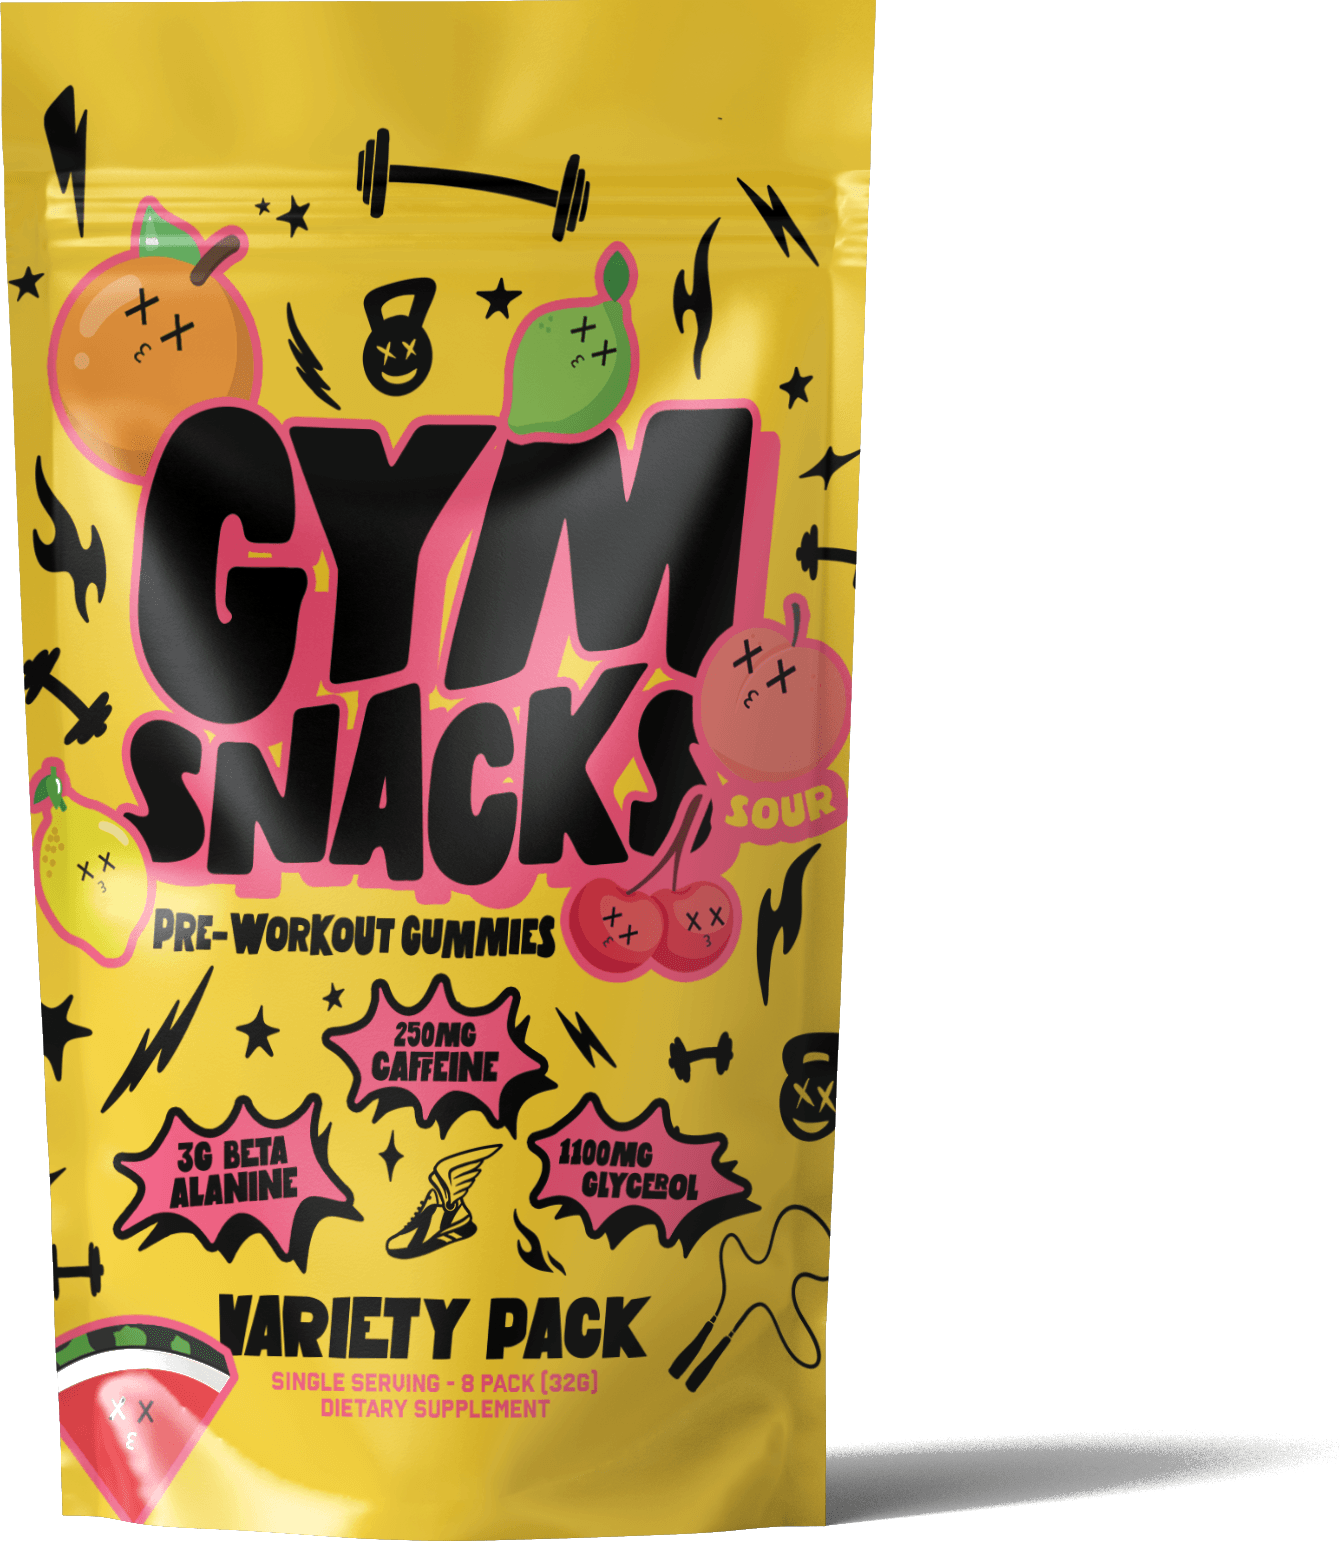
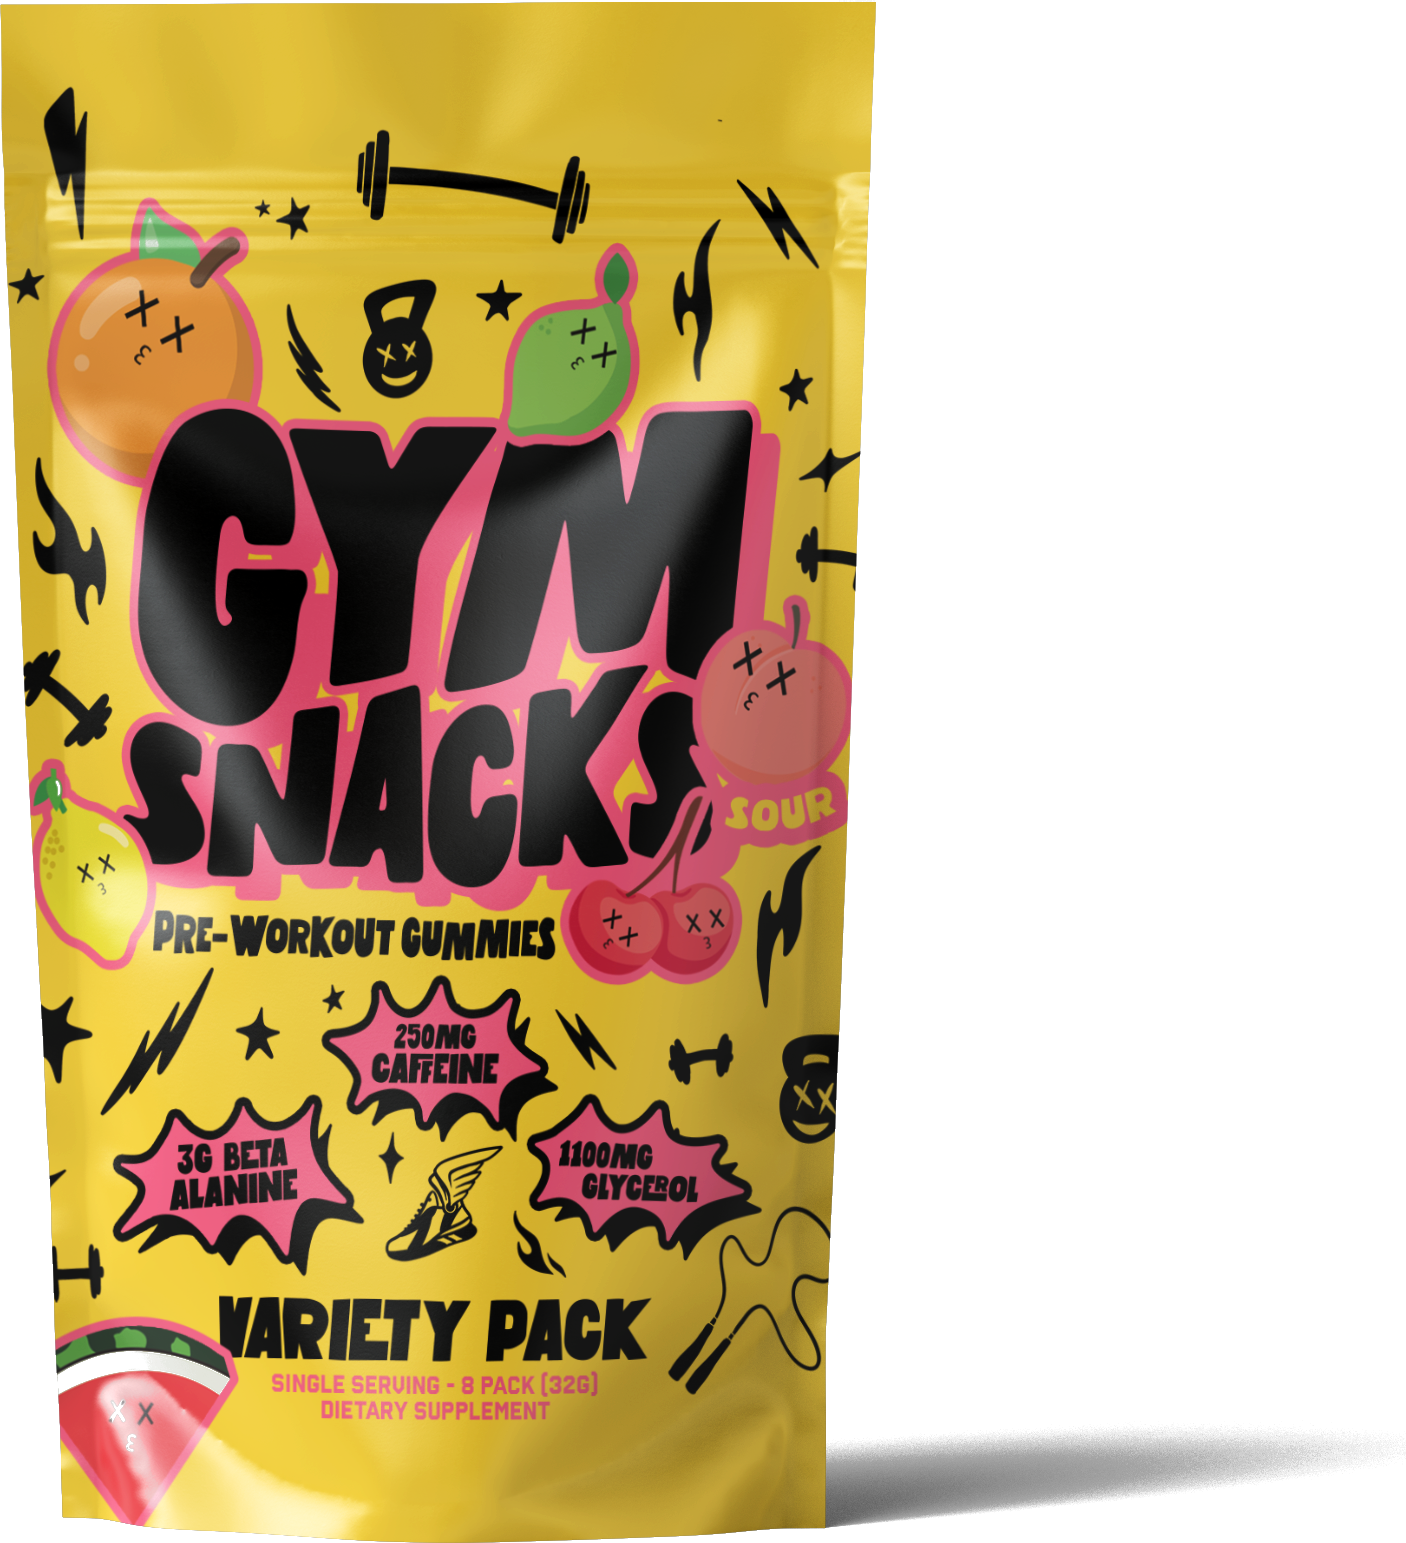
fix: poppy hover badges, remove white fringe from bag, pink shadow
- BurstBadge: bigger hover (1.25x scale + wiggle rotation), tap shrink,
  dark drop shadow instead of none, cursor pointer
- Bag mockup: re-processed with tighter edge tolerance, darkened fringe
  pixels to eliminate white halo from background removal
- Hero bag shadow: changed from black to pink glow (rgba(255,20,147,0.4))

diff --git a/src/components/ui/BurstBadge.tsx b/src/components/ui/BurstBadge.tsx
@@ -27,11 +27,17 @@ export function BurstBadge({ children, className = "", delay = 0, size = "md" }:
         damping: 15,
         delay,
       }}
-      whileHover={{ scale: 1.1, rotate: 5 }}
+      whileHover={{
+        scale: 1.25,
+        rotate: [0, -8, 8, -4, 0],
+        transition: { duration: 0.4, type: "spring", stiffness: 500 },
+      }}
+      whileTap={{ scale: 0.9 }}
       className={`
-        clip-burst bg-brand-pink
+        clip-burst bg-brand-pink cursor-pointer
         flex items-center justify-center text-center
         font-display text-white uppercase leading-tight
+        drop-shadow-[3px_3px_0_rgba(26,26,26,0.8)]
         p-4 ${sizes[size]} ${className}
       `}
     >

diff --git a/src/components/home/Hero.tsx b/src/components/home/Hero.tsx
@@ -132,7 +132,7 @@ export function Hero() {
                 width={420}
                 height={480}
                 priority
-                className="max-h-[65vh] w-auto object-contain drop-shadow-[0_25px_50px_rgba(0,0,0,0.5)] hover:scale-105 transition-transform duration-500"
+                className="max-h-[65vh] w-auto object-contain drop-shadow-[0_20px_60px_rgba(255,20,147,0.4)] hover:scale-105 transition-transform duration-500"
               />
             </motion.div>
 
